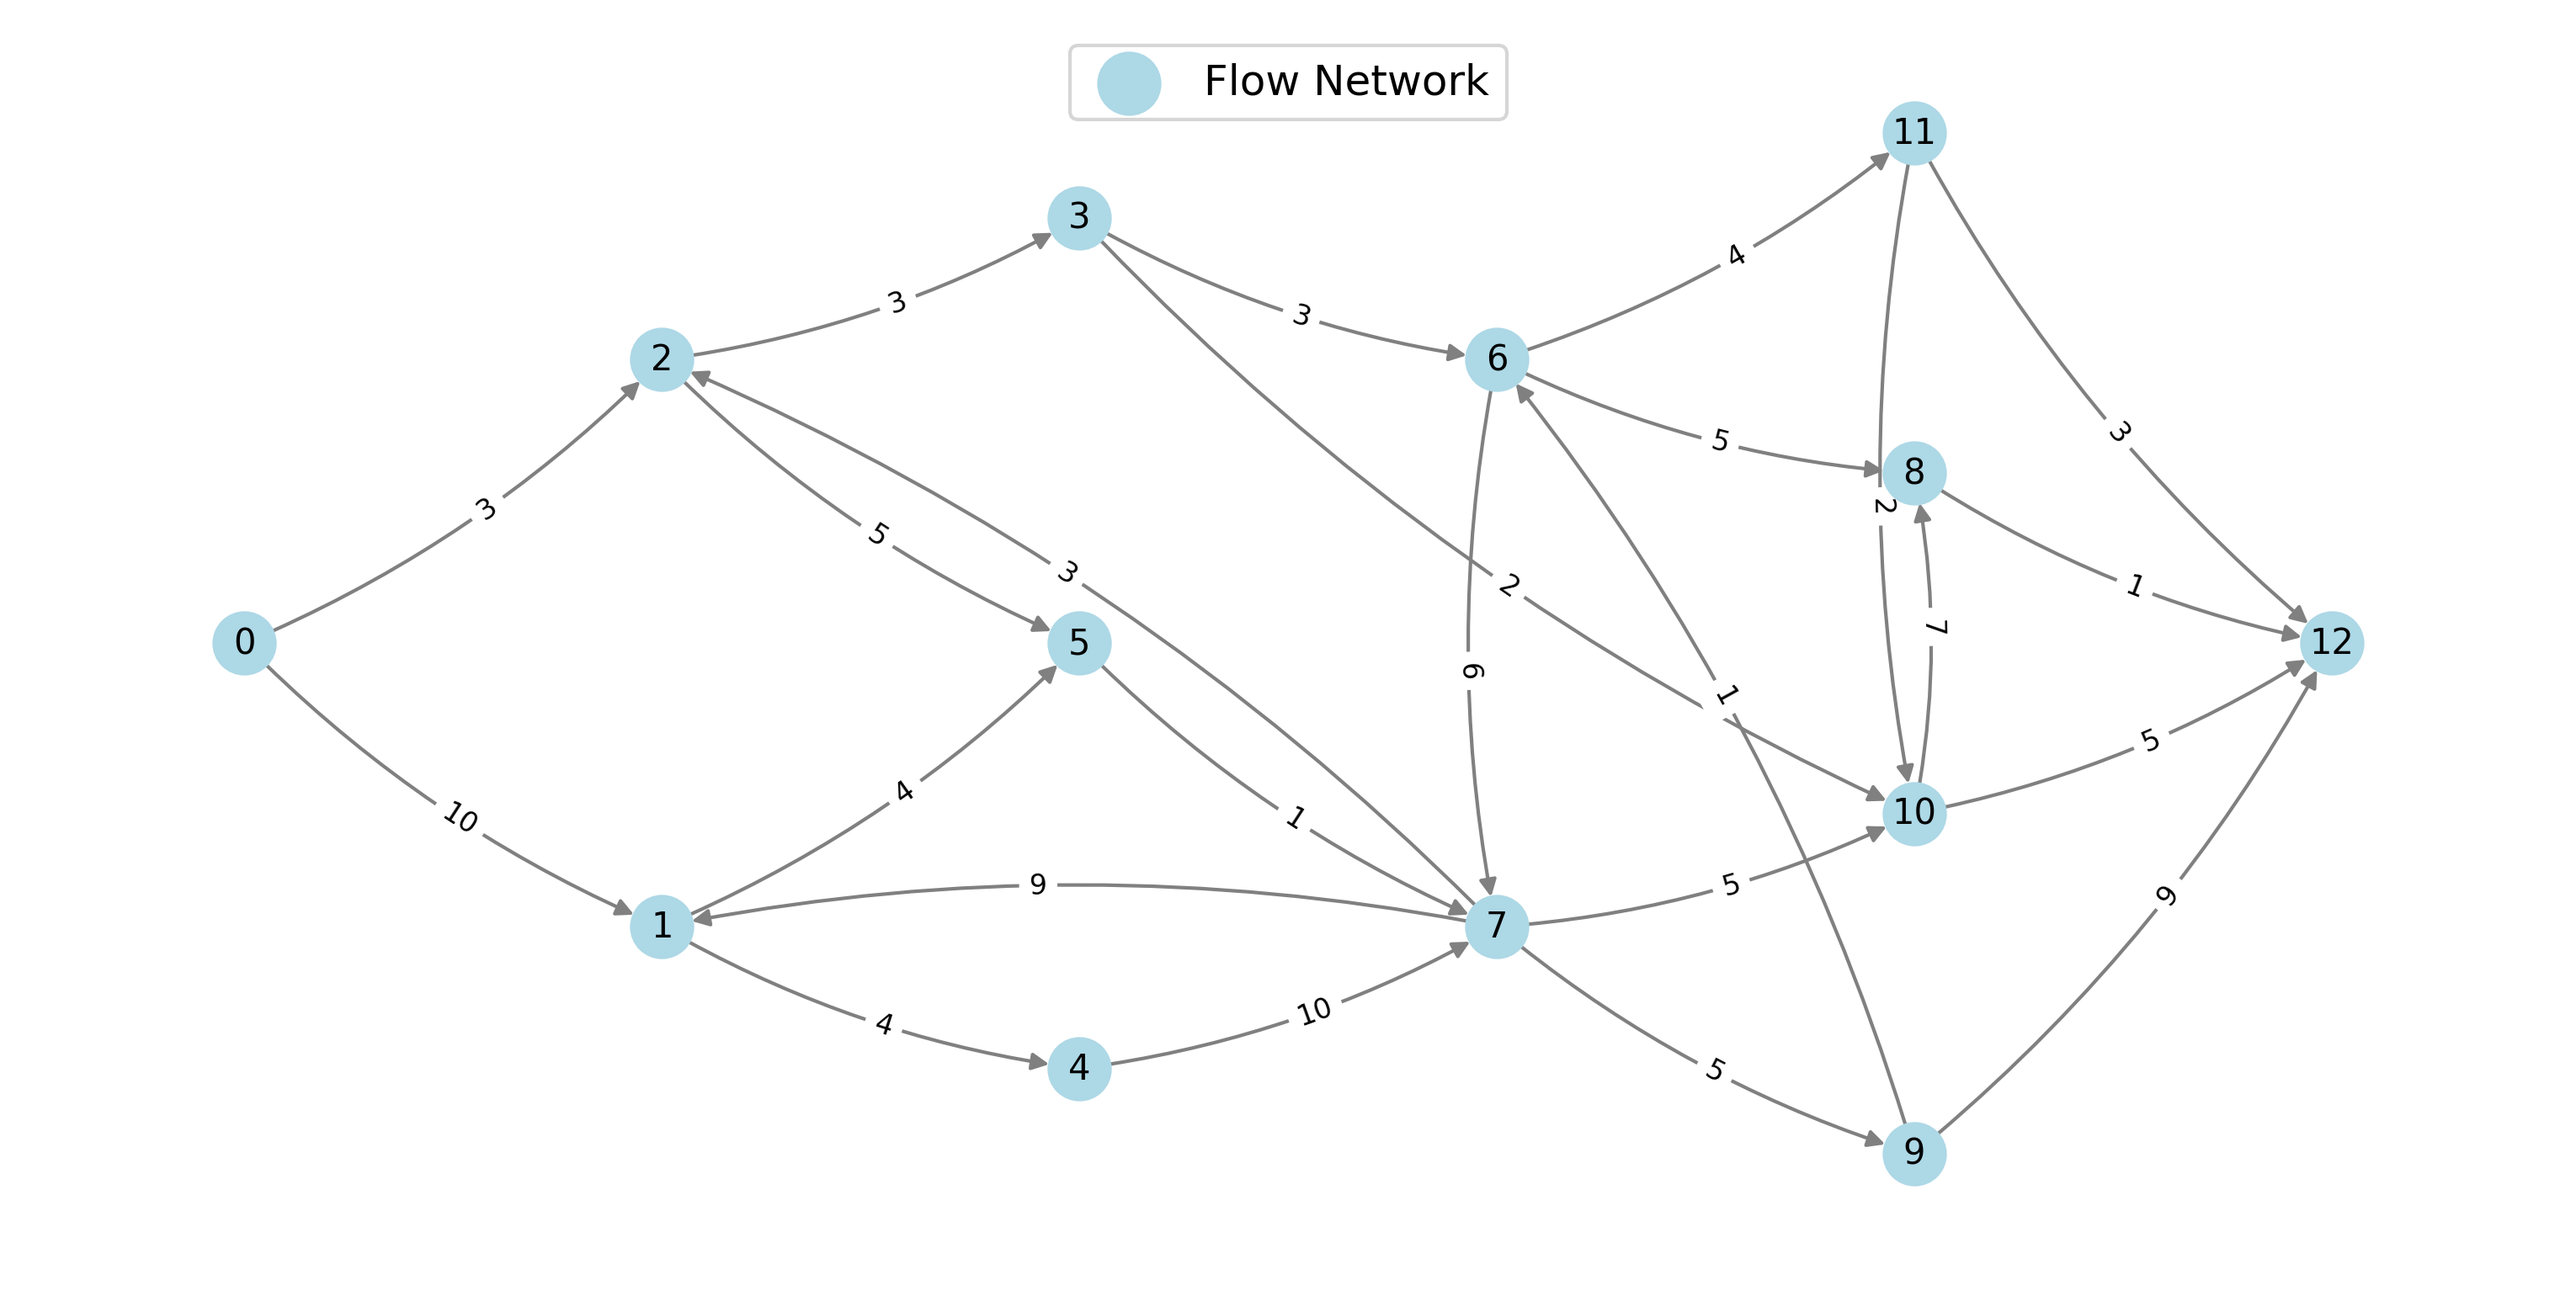
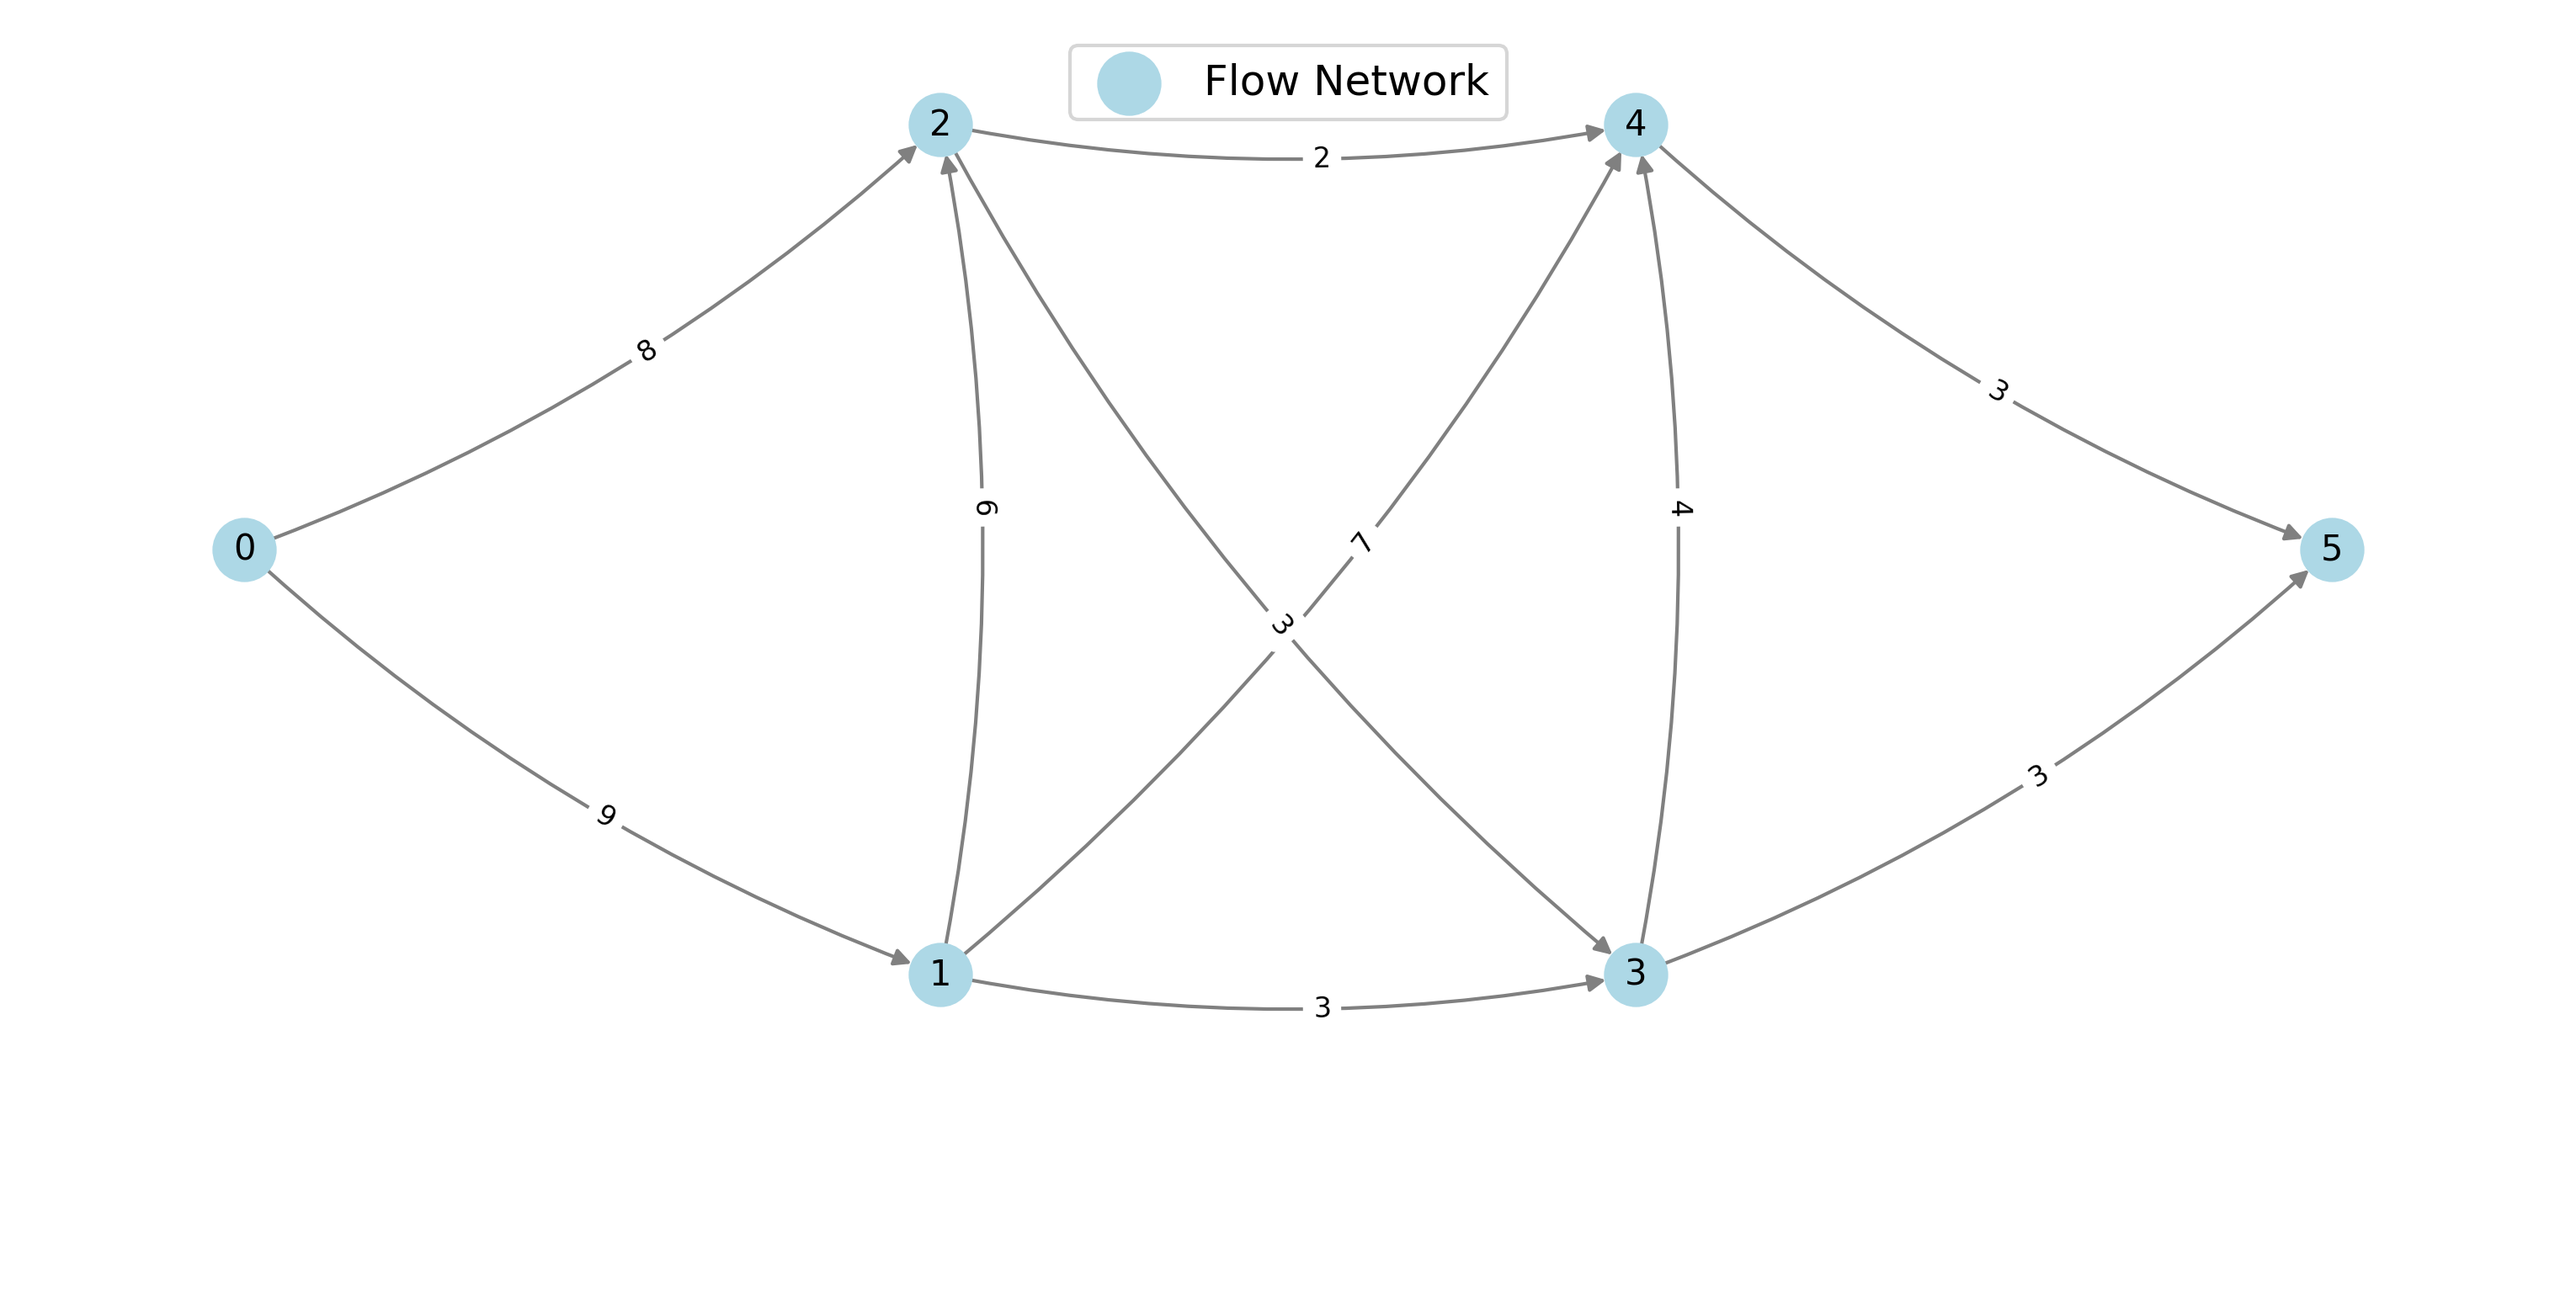
cleaned code for task 1 project 5

diff --git a/Algorithms.py b/Algorithms.py
@@ -88,7 +88,6 @@ def generate_random_flow_network(nmbr_inter_layers: int, probability: float) -> 
     network = FlowNetwork(20)
     prev_layer = [0]
     curr_vert = 0
-    layers_to_remember = [prev_layer]
     
     for _ in range(nmbr_inter_layers):
         new_layer = []
@@ -109,24 +108,21 @@ def generate_random_flow_network(nmbr_inter_layers: int, probability: float) -> 
             for node in remaining:
                 network.add_edge(node, random.choice(new_layer), func = lambda: random.randint(1,10))
         prev_layer = new_layer
-        layers_to_remember.append(prev_layer)
      
     curr_vert += 1   
-    layers_to_remember.append([curr_vert])
-        
     for node in prev_layer:
         network.add_edge(node, curr_vert, func = lambda: random.randint(1,10))
     network.n = curr_vert + 1   
-    network.internal_layers = get_layers_from_network(network)
+    network.network_layers = get_layers_from_network(network)
     network.refactor_adjacency_matrix(curr_vert + 1)
-    #print(network)
-    #print()
+    # print(network)
+    # print()
     
     for _ in range(2*nmbr_inter_layers):
         u = random.choice(range(1, curr_vert))    
         v = random.choice(range(1, curr_vert))
         added = False
-        limit = nmbr_inter_layers                        
+        limit = 5 * nmbr_inter_layers                        
         while not added and limit > 0:
             if u != v and not network.edge_exists(u, v) and not network.edge_exists(v, u):
                 network.add_edge(u, v, func = lambda: random.randint(1,10))

diff --git a/zestaw05.py b/zestaw05.py
@@ -12,7 +12,7 @@ if __name__ == '__main__':
     # należy następnie dodać 2N łuków w sposób losowy. Łuki mają być losowane bez preferencji kierunku, tzn. nie muszą być skierowane zgodnie z warstwami. 
     # Należy jednak zwrócić uwagę, żeby nie dodać łuku już istniejącego i żeby nie dodać łuku wchodzącego do źródła albo wychodzącego z ujścia. 
     # Na tak otrzymanym digrafie przypisać każdemu łukowi liczbę naturalną z zakresu [1, 10] mającą interpretację przepustowości. Zakodować i narysować otrzymaną sieć.
-    network = generate_random_flow_network(4, 0.5)
+    network = generate_random_flow_network(2, 0.5)
     Draw_Flow_Network(network, legend_title='Flow Network', filename = 'flow_network.png', output_dir='outputs/05')
     
     # Zadanie 2

diff --git a/DirectedMyGraph.py b/DirectedMyGraph.py
@@ -131,13 +131,13 @@ def generate_random_directed_graph_by_probability(n, p):
 class FlowNetwork(DirectedAdjacencyList):
     def __init__(self, size: int):
         super().__init__(size)
-        self.internal_layers: list[list[int]] = None
+        self.network_layers: list[list[int]] = None
         
     def edge_exists(self, u: int, v: int) -> bool:
         return (u, v) in self.weighted_edges
     
     def refactor_adjacency_matrix(self, new_n):
-        self.adj = [[self.adj[n]] for n in range(new_n)]
+        self.adj = [self.adj[n] for n in range(new_n)]
         
 
 

diff --git a/DrawGraph.py b/DrawGraph.py
@@ -76,7 +76,7 @@ def Draw_Flow_Network(graph: FlowNetwork, legend_title: str, filename: str = 'fl
         weighted_edges = [(u, v, w) for (u, v), w in graph.weighted_edges.items()]
         G.add_weighted_edges_from(weighted_edges)
 
-        layers = graph.internal_layers
+        layers = graph.network_layers
         pos = {}
         for layer_idx, layer in enumerate(layers):
             y_step = 1.0 / (len(layer) + 1)
